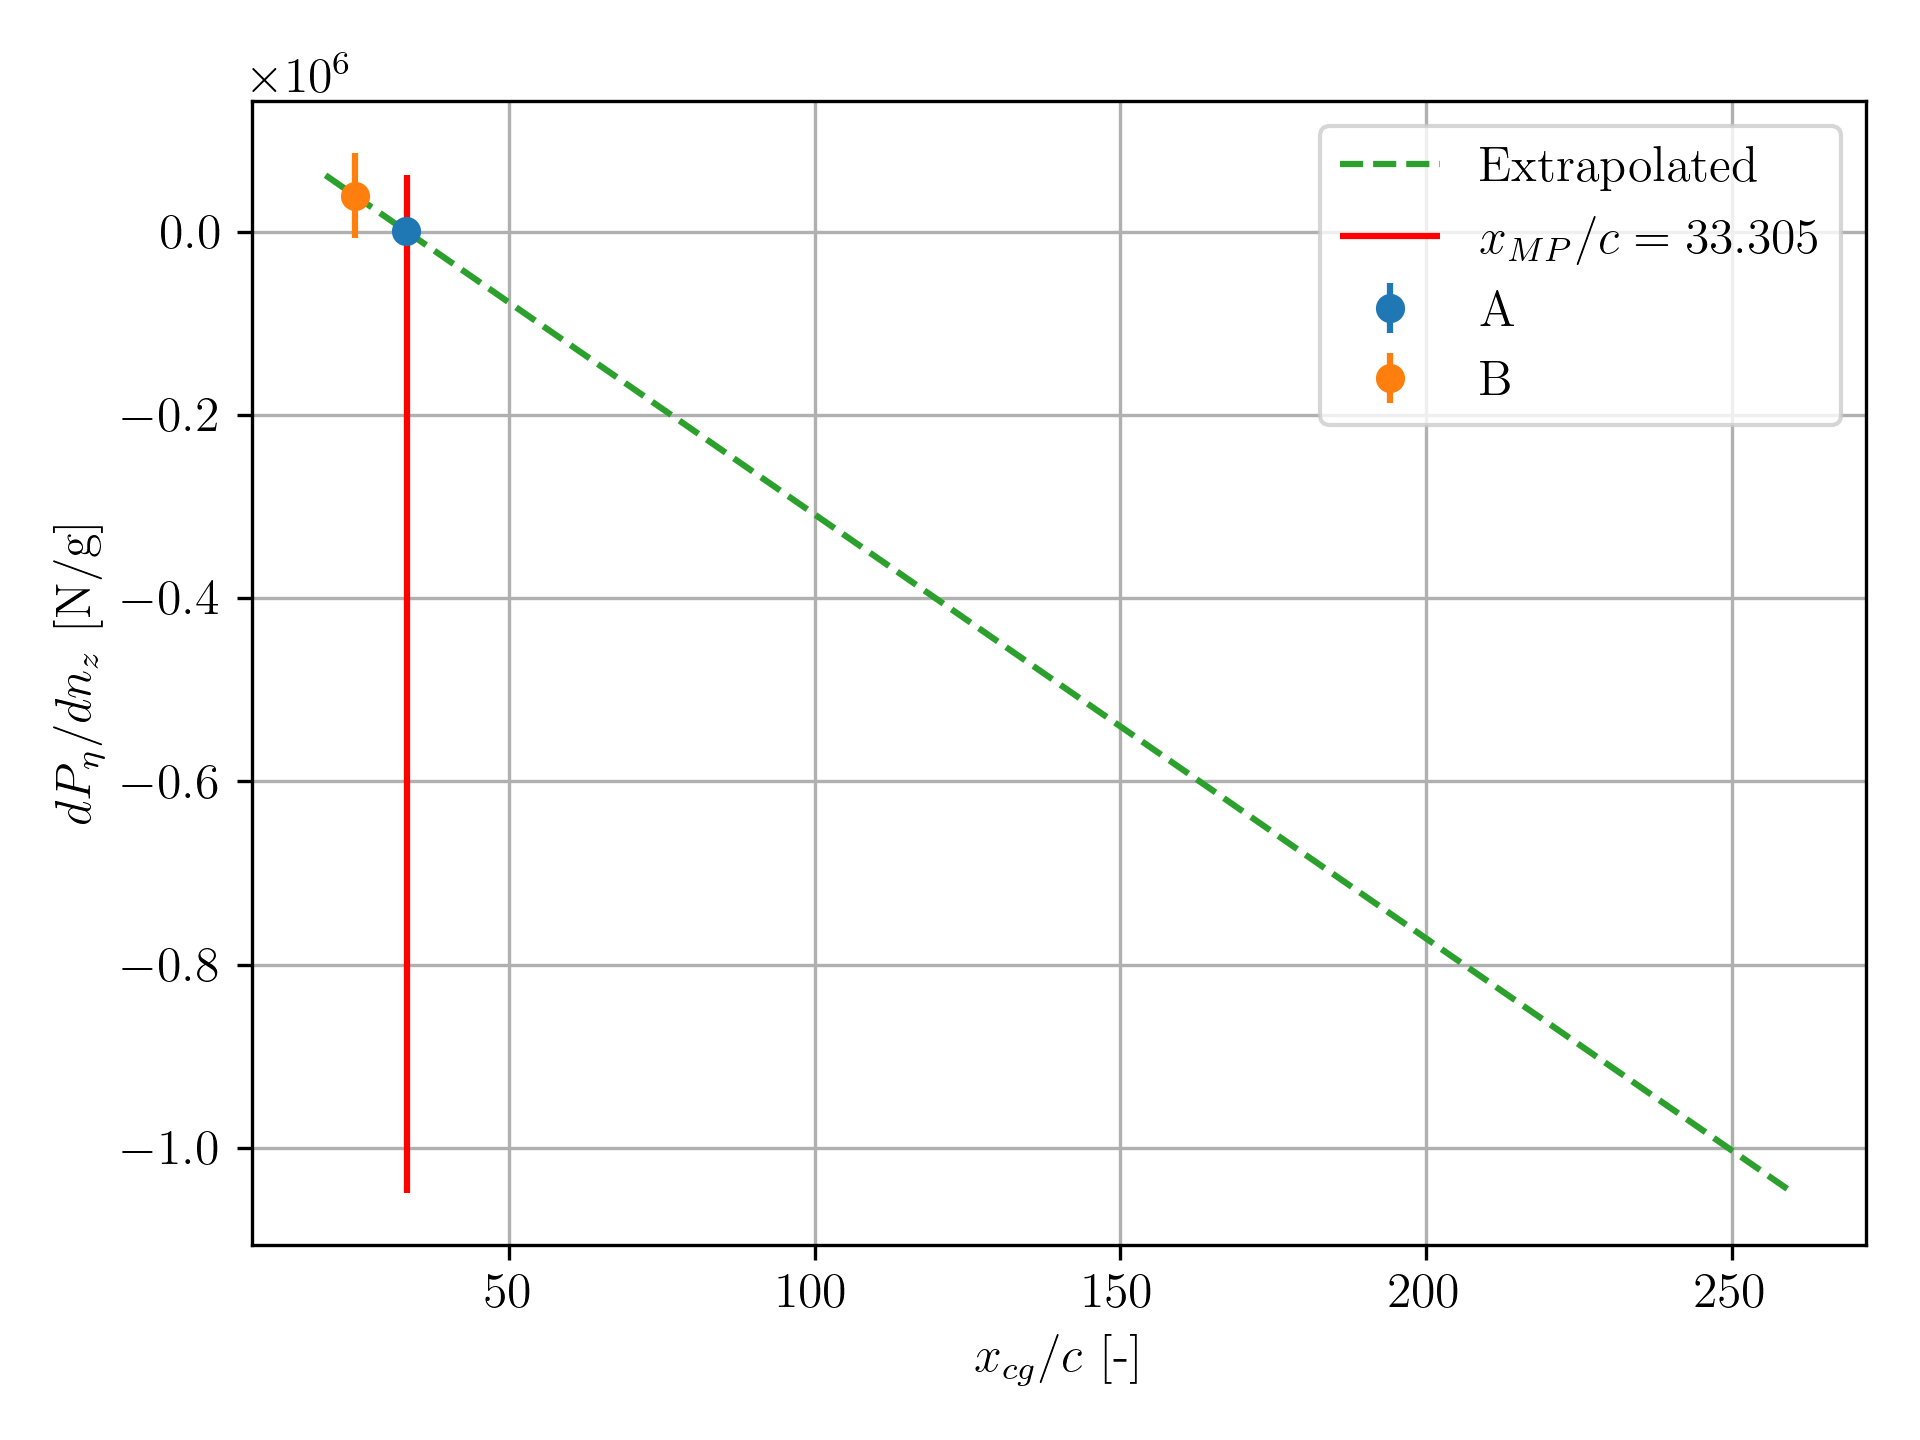
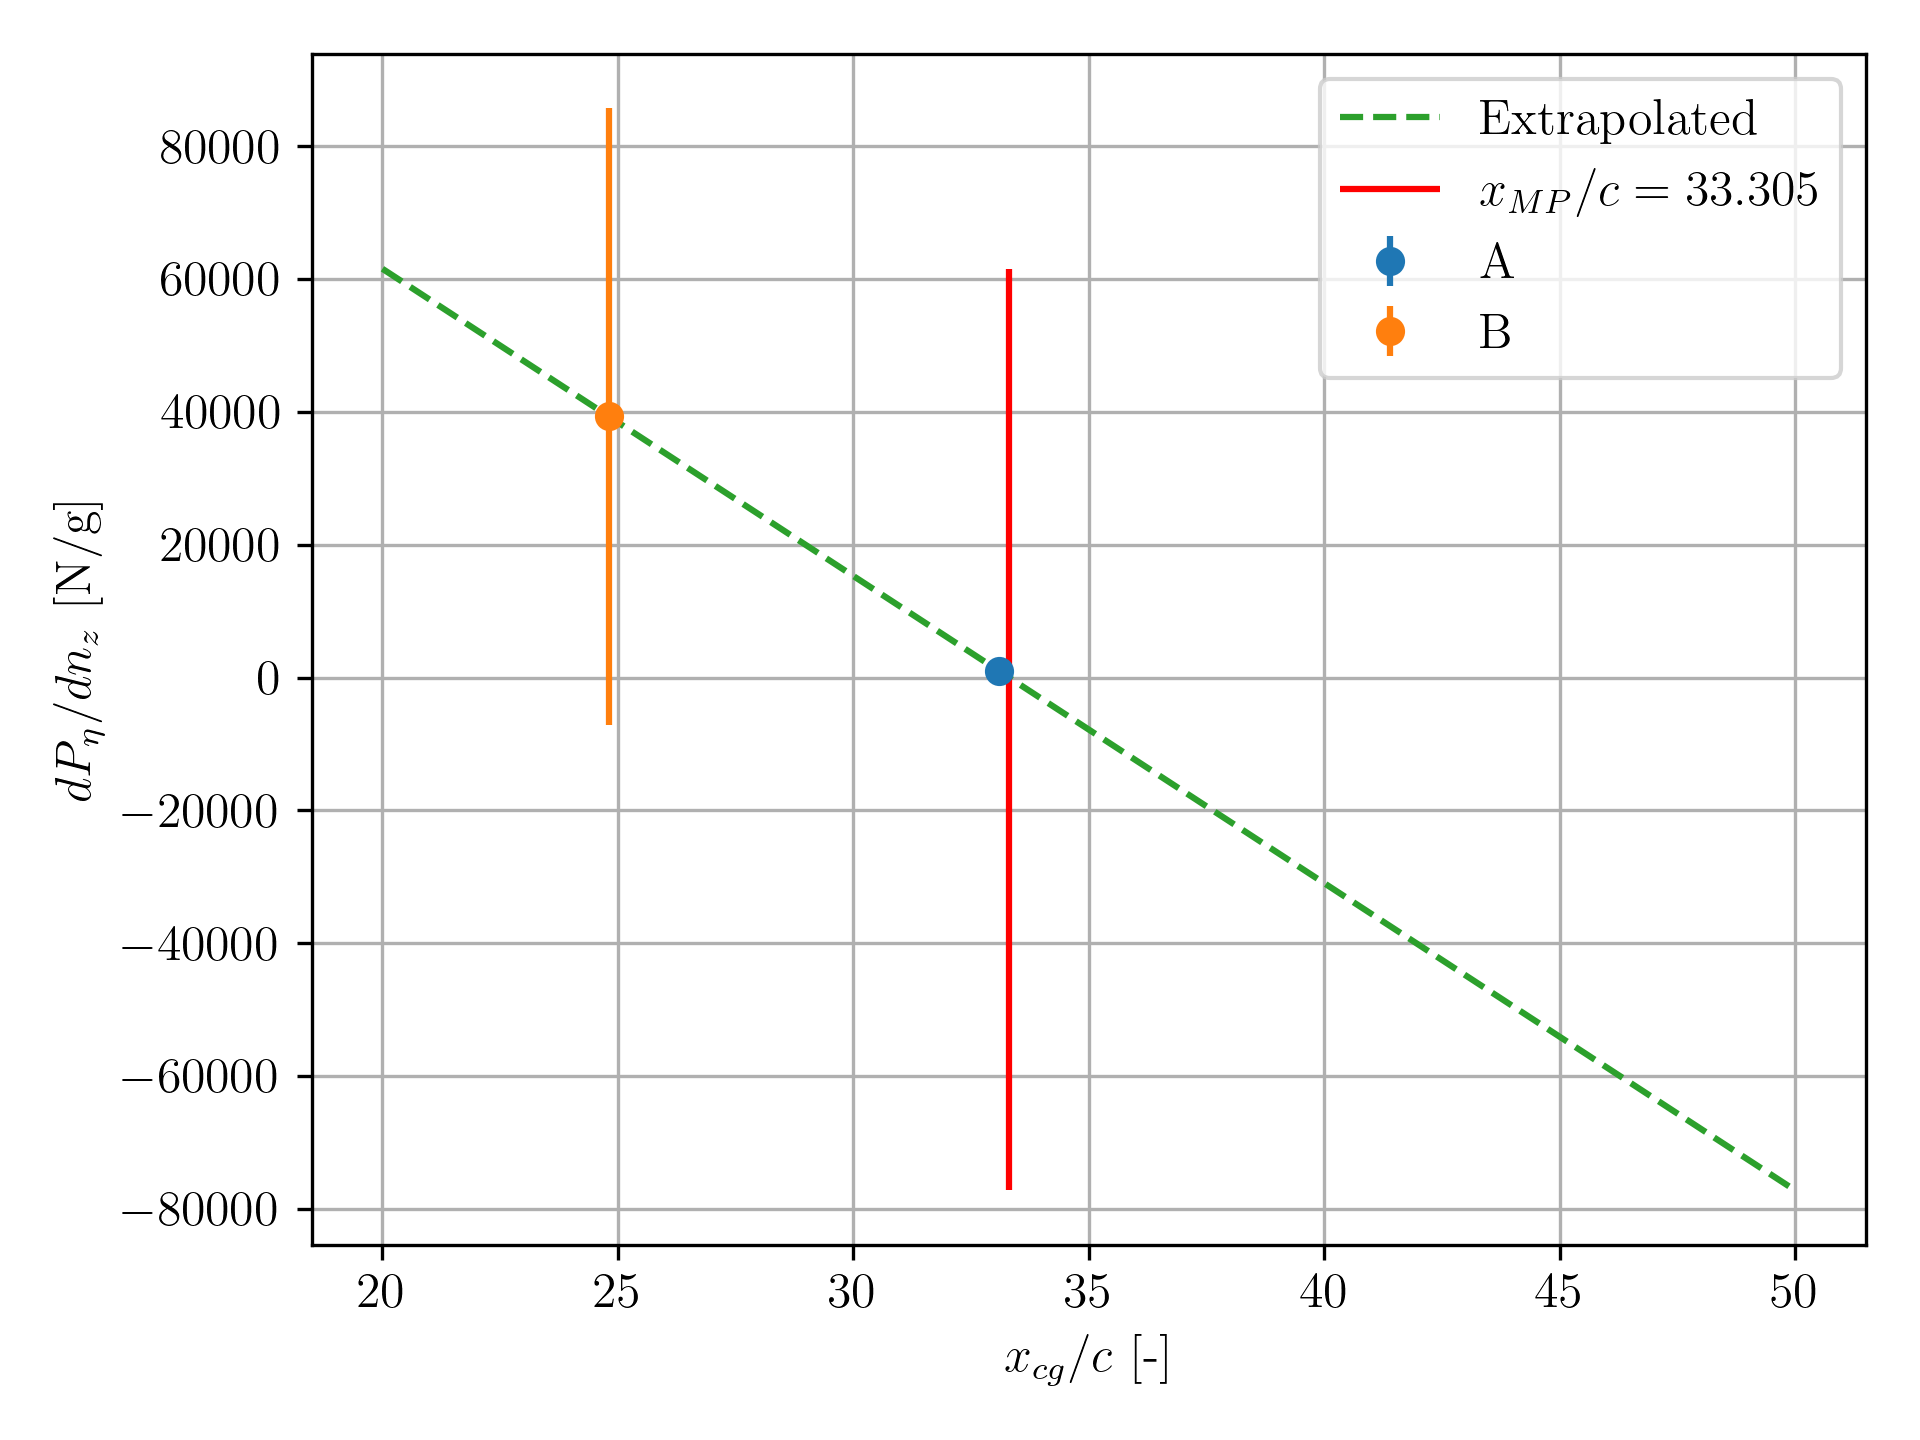
But I'm losing my edge To better-looking people With better ideas and more talent And they're actually really, really nice

diff --git a/IIB/4A4/exercise4/e4.tex b/IIB/4A4/exercise4/e4.tex
@@ -85,7 +85,7 @@
 
 Ensuring stability and control over aircraft in flight is crucial for both safety and performance.
 Static stability is the aircraft's tendency to return to its equilibrium state after a disturbance, while dynamic stability refers to the aircraft's response over time to such disturbances.
-Modern aircraft require active control systems to meet performance and saftey criteria \dots
+Modern aircraft require active control systems to meet strict performance and safety criteria.
 
 \subsection{Objectives}
 
@@ -116,13 +116,12 @@ Period of phugoid oscillation $T = \frac{\sqrt{2} \pi U}{g}$
 
 Static stability of phugoid and SPO requires pitching moment $(m)$ coefficient due to heave $(w)$ to be negative $(m_w < 0)$.
 \begin{equation}
-    m_w = -\frac{x_n}{c}\frac{dC_L}{d\alpha} < 0
+    \frac{\partial C_m}{\partial \alpha} = -\frac{x_n}{c}\frac{dC_L}{d\alpha} < 0
 \end{equation}
-The manoeuvre stiffness
-\begin{equation}
-    -m_w = \frac{m_q z_w}{\mu_1} = \frac{x_n}{c}\frac{dC_L}{d\alpha} 
-\end{equation}
-The manoeuvre stiffness describes the static stability of the SPO alone and determines the sensitivity of the short term aircraft response to control motions \cite{handout}.
+
+This is to provide a restoring moment to the aircraft when disturbed from equilibrium.
+The neutral point is defined as the center of gravity (CG) at which the restoring moment is lost and so a CG aft of the neutral point won't be statically stable.
+The stick-fixed and stick-free neutral points are not the same, because the elevator is free to move and provides less of a restorative moment when free to move.
 
 \begin{figure}[H]
     \centering
@@ -140,6 +139,22 @@ The manoeuvre stiffness describes the static stability of the SPO alone and dete
     \label{fig:longitudinal_static_stability}
 \end{figure}
 
+Figure \ref{fig:longitudinal_static_stability} shows stick fixed and free longitudinal static stability of the SAAB 340B aircraft.
+The two test flights with different CG positions are shown with error bars on the gradients representing the respective restorative moments.
+The error bars are calculated from deviations in the respective gradients for stick fixed and free cases over a range of angles of attack.
+Both plots show restorative moments and from linearised theory the neutral points are found.
+The tested CGs are further aft from the stick free neutral point than the stick fixed neutral point.
+This is not the expected behaviour discussed previously.
+However, given that they are within 10\% and the high uncertainty in the calculated gradients then this is likely attributed to the high uncertainty.
+
+
+The manoeuvre stiffness is 
+\begin{equation}
+    -m_w = \frac{m_q z_w}{\mu_1} = \frac{x_n}{c}\frac{dC_L}{d\alpha} 
+\end{equation}
+The manoeuvre stiffness describes the static stability of the SPO alone and determines the sensitivity of the short term aircraft response to control motions \cite{notes}.
+The manoeuvre point is then defined as the CG at which the manoeuvre stiffness is zero and is therefore similarly related to the stiffness of the stick free SPO.
+
 \begin{figure}[H]
     \centering
     \begin{subfigure}{0.45\textwidth}
@@ -152,11 +167,13 @@ The manoeuvre stiffness describes the static stability of the SPO alone and dete
         \includegraphics[width=0.99\textwidth]{../exercise1/Manoeuvre_Stability_4.png}
         \caption{Stick free}
     \end{subfigure}
-    \caption{Manouevre stability of the SAAB 340B aircraft.}
-    \label{fig:Manouevre_stability}
+    \caption{Manoeuvre stability of the SAAB 340B aircraft.}
+    \label{fig:Manoeuvre_stability}
 \end{figure}
 
-Help \dots \dots \dots
+The stick fixed and free manoeuvre points appear very close but the uncertainty in gradients calculated is also larger so its difficult to compare magnitudes.
+It would be expected that the stick fixed manoeuvre point would be further aft than the stick free manoeuvre point.
+Without additional quantities such as $dC_L/d\alpha$, the manoeuvre stiffness cannot be compared to SPO mode parameters.
 
 \subsection{Modal Analysis}
 
@@ -182,10 +199,6 @@ However, in practice a significant range of the spectrum data was discarded due 
 Emphasis was placed on fitting the numerator of the transfer function close to natural frequencies which happen to be small \ref{tab:oscillatory_modes}.
 
 \section{Results}
-
-\subsection{Static Stability}
-
-
 
 
 \subsection{Denominator Coefficients}
@@ -223,7 +236,6 @@ The denominator coefficients were obtained from reconstructing poles from the pr
 For oscillatory modes, the poles were reconstructed using the formula $s = -\zeta\omega_n \pm j\omega_n\sqrt{1-\zeta^2}$.
 For non-oscillatory modes the time constants were found to be significantly different to given representative mode parameters \cite{rep} and so the latter was used.
 Its also worth noting that the spiral mode is unstable and so the pole was placed in the right half plane $s = 1/42.6$.
-
 
 \subsection{Transfer Functions}
 \subsubsection{Fitted functions}
@@ -320,7 +332,7 @@ For $G(s)$ as the fitted transfer function of elevator to pitch angle, and $H(s)
 \begin{equation}
     e_{ss} = \frac{0.07895}{0.07895 + 0.126421 k} < 0.025
 \end{equation}
-Which can be rearranged to give an lower bound on $k$ as $k > 24.36$.
+Which can be rearranged to give a lower bound on $k$ as $k > 24.36$.
 
 \begin{figure}[H]
     \centering
@@ -425,7 +437,7 @@ Three methods were peformed and their step responses can be seen in figure \ref{
 
 With little information about the system, only the frequency and gain value at which the SPO pole becomes unstable, the autotuning methods were able to find functional controllers.
 The performance does not meet the requirements for overshoot or in the Ziegler Nichols case the damping requirements.
-The some overshoot suprisingly had less overshoot than the no overshoot method, although this was due to a different mode, the phugoid, being dominant in the response.
+The some overshoot surprisingly had less overshoot than the no overshoot method, although this was due to a different mode, the phugoid, being dominant in the response.
 This is inherently due to the methods being more applicable to lower order systems.
 However, given the simplicity of the rule based methods, they could provide an initial guess for the controller parameters to be numerically optimised.
 Such optimisation would require a cost function to be defined which could be an integrated absolute error or a weighted sum of the overshoot and settling time properties \ref{fig:matlab_step_chics}.
@@ -482,7 +494,7 @@ Interestingly the spiral and roll subsidence poles merge and become a complex co
 Figure \ref{fig:roll_autopilot_step_uncompensated} shows the closed loop step responses for the gain values shown in figure \ref{fig:roll_autopilot_uncompensated_locus}.
 The requirement for the subsequent oscillations to be $5 \%$ of the steady state is more strict than the oscillatory mode damping ratio requirement $\zeta_{RS}<0.8$.
 The gain nearest to this damping limit is $k=1.24$ but the value of $k=0.75$ was found to satisfy the requirement whilst still having a fast response.
-The spiral and roll subsidence poles are non-oscillatory for this value but satisfy the relevent requirements \ref{req:RS}.
+The spiral and roll subsidence poles are non-oscillatory for this value but satisfy the relevant requirements \ref{req:RS}.
 At smaller gain values the dutch roll damping and roll subsidence time constant decreases which is not desirable.
 
 While this controller meets the criteria, an additional complexity in the form of a derivative term would significantly improve the performance.
@@ -491,7 +503,7 @@ The lack of damping of the dutch roll mode causes overshoot which would be reduc
 
 \subsection{Augmented C* control system}
 
-In a manoeuvre, the pilot aims to achieve a constant pitch rate which is equivilent to a constant normal acceleration.
+In a manoeuvre, the pilot aims to achieve a constant pitch rate which is equivalent to a constant normal acceleration.
 The $C^*$ quantity is defined as
 \begin{equation}
     C^* = n_{zp} + 12.4q
@@ -616,13 +628,12 @@ A gain value of $1.66$ was selected, close to the point of maximum damping but w
 
 The importance of static aircraft stability and active flight control systems is discussed.
 Static stability characteristics of the SAAB 340B were determined from experimental flight data.
-Manouevre points of \dots
-Modal analysis and transfer function fitting on frequency domain data was peformed to reconstruct the aircraft dynamics.
+Modal analysis and transfer function fitting on frequency domain data was performed to reconstruct the aircraft dynamics.
 Discrepancies between the fitted and representative transfer functions were attributed to uncertainty in mode parameters and presence of noise in frequency domain data.
 Robustness and performance requirements were defined for autopilot and augmented C* control systems.
 The pitch displacement autopilot was found to require both integral and derivative terms to meet the requirements.
 A tradeoff between the phugoid damping and SPO transience in the step response was identified and recommendations were made for the choice of gain value.
-A proportional controller was found to meet requirements for the roll displacement autopilot, although its mentioned that a derivative term would improve performance.
+A proportional controller was found to meet requirements for the roll displacement autopilot, although it's mentioned that a derivative term would improve performance.
 The $C^*$ transfer function is derived and was found to meet requirements also with a simple proportional controller.
 Finally, improvements to the analysis were suggested to better capture the dynamics of the aircraft and improve the robustness of the control system design.
 

diff --git a/IIB/4A4/exercise1/e1.py b/IIB/4A4/exercise1/e1.py
@@ -250,7 +250,7 @@ def plot_Manoeuvre_Stability(ares, bres, aload, bload, afuel, bfuel):
     ax.errorbar(cgA, Aymean, yerr=np.std(A_dnu_dn), fmt='o', label='A')
     ax.errorbar(cgB, Bymean, yerr=np.std(B_dnu_dn), fmt='o', label='B')
 
-    x = np.linspace(20, 100, 200)
+    x = np.linspace(20, 60, 200)
     y = Aymean + (x - cgA) * (Bymean - Aymean) / (cgB - cgA)
 
     ax.plot(x, y, label='Extrapolated', linestyle='--')
@@ -297,7 +297,7 @@ def plot_Manoeuvre_Stability(ares, bres, aload, bload, afuel, bfuel):
     ax.errorbar(cgA, Aymean, yerr=np.std(A_df_dn), fmt='o', label='A')
     ax.errorbar(cgB, Bymean, yerr=np.std(B_df_dn), fmt='o', label='B')
 
-    x = np.linspace(20, 260, 200)
+    x = np.linspace(20, 50, 200)
     y = Aymean + (x - cgA) * (Bymean - Aymean) / (cgB - cgA)
 
     ax.plot(x, y, label='Extrapolated', linestyle='--')
@@ -408,7 +408,6 @@ def main():
     B_Lat_Directional_Static_Stability_SHSS_df = measurement_df.iloc[30:37, 8:12]
     B_Lat_Directional_Static_Stability_SHSS_df.columns = ['Aileron deg', 'Roll angle deg', 'Sideslip deg', 'Rudder deg']
 
-    """
     plot_Longitudinal_Static_Stability(
         A_Longitudinal_Static_Stability_df, 
         B_Longitudinal_Static_Stability_df, 
@@ -416,7 +415,6 @@ def main():
         A_Longitudinal_Static_Stability_fuel, 
         B_Longitudinal_Static_Stability_fuel
         )
-    """
 
     plot_Manoeuvre_Stability(
         A_Longitudinal_Manoeuvre_Stability_df, 

diff --git a/IIB/4F2/oscillatory_NNs_and_pharmocokinetics/report.tex b/IIB/4F2/oscillatory_NNs_and_pharmocokinetics/report.tex
@@ -92,7 +92,8 @@
 
 \begin{document}
 
-\title{4F2 Robust and Nonlinear control}
+%\title{4F2 Robust and Nonlinear control}
+\title{PRE EAMC DEADLINE DO NOT MARK}
 \author{5735G}
 \date{Feburary 2025}
 \maketitle 
@@ -269,8 +270,8 @@ The Scaled Relative Graph (SRG) from $w_1$ to $c_1$ is then derived by
     w_1 &\in (L + N)(c_1) \\
     \implies c_1 &\in (L + N)^{-1}(w_1) 
 \end{align}
-From the incremental sector condition, the SRG of the nonlinear part is a circle with center $[(\mu+\lambda)/2, 0]$ and radius $(\mu-\lambda)/2$.
-The SRG of $L$ is simply a line.
+From the incremental sector condition, the SRG of the nonlinear part, $N$, is a circle with center $[(\mu+\lambda)/2, 0]$ and radius $(\mu-\lambda)/2$.
+The SRG of linear part $L$ is simply a line.
 \begin{align}
     L &= \{ \alpha_{12} + j y : y \in \mathbb{R} \} \\
     N &= \{ (\mu_1 + \lambda_1)/2 + z : |z| \leq (\mu_1 - \lambda_1)/2 \}
@@ -298,7 +299,7 @@ When inverted the resultant SRG is a larger circle between 0 and $1/(\lambda_1 +
 \begin{figure}[H]
     \centering
     \includegraphics[width=0.4\textwidth]{figures/feedback_components.jpg}
-    \caption{}
+    \caption{Derivation and diagram of the SRG }
 \end{figure}
 
 \begin{figure}[H]
